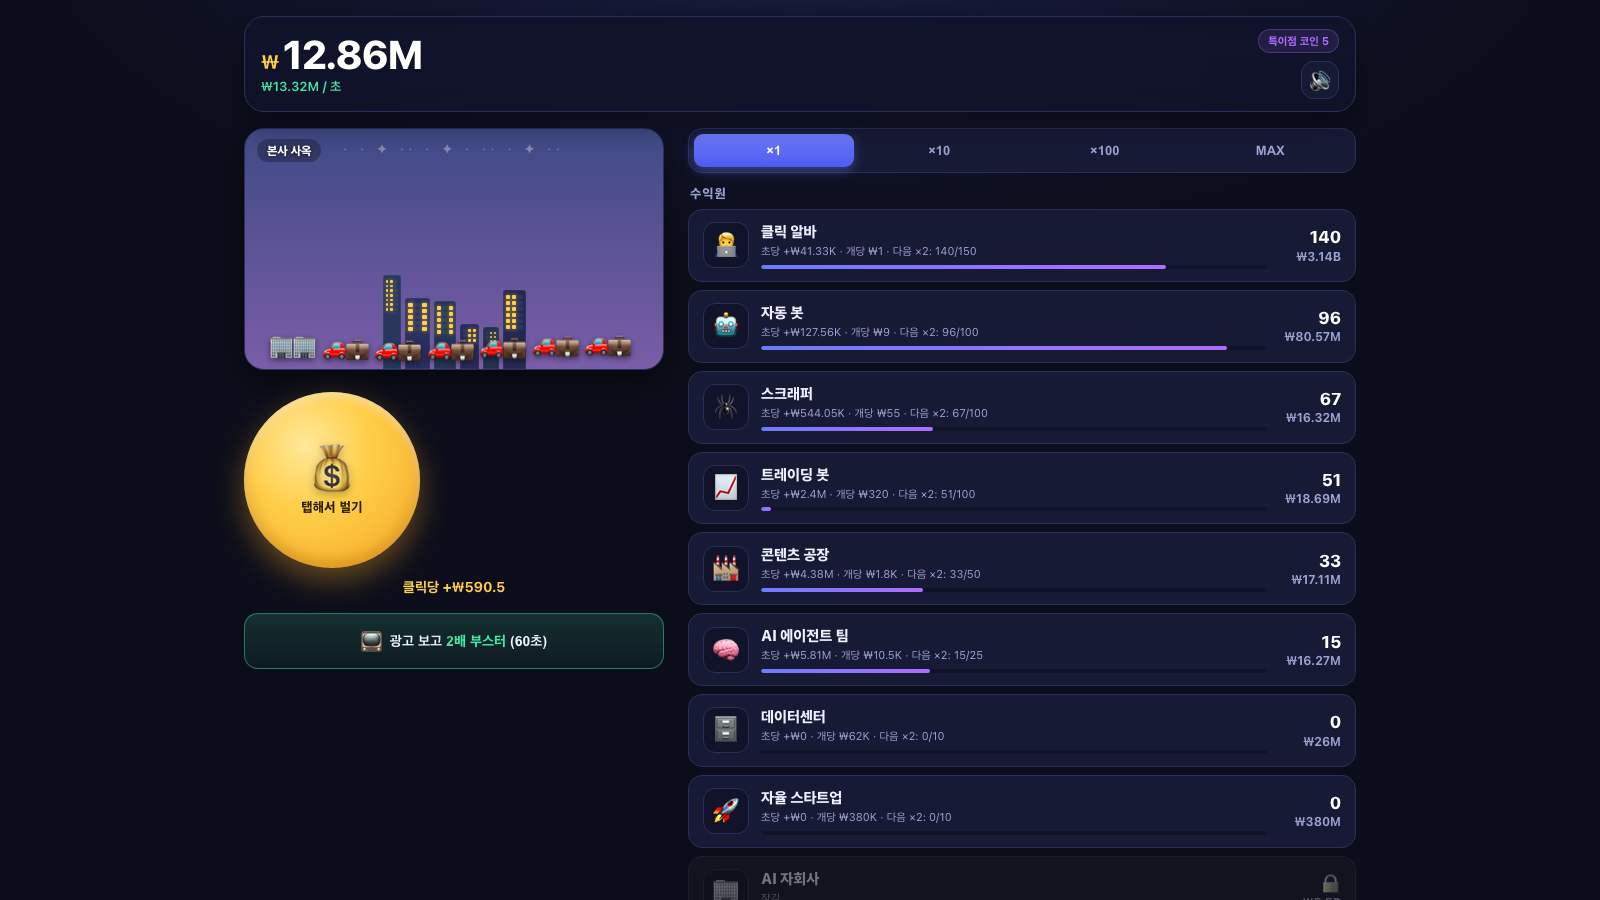
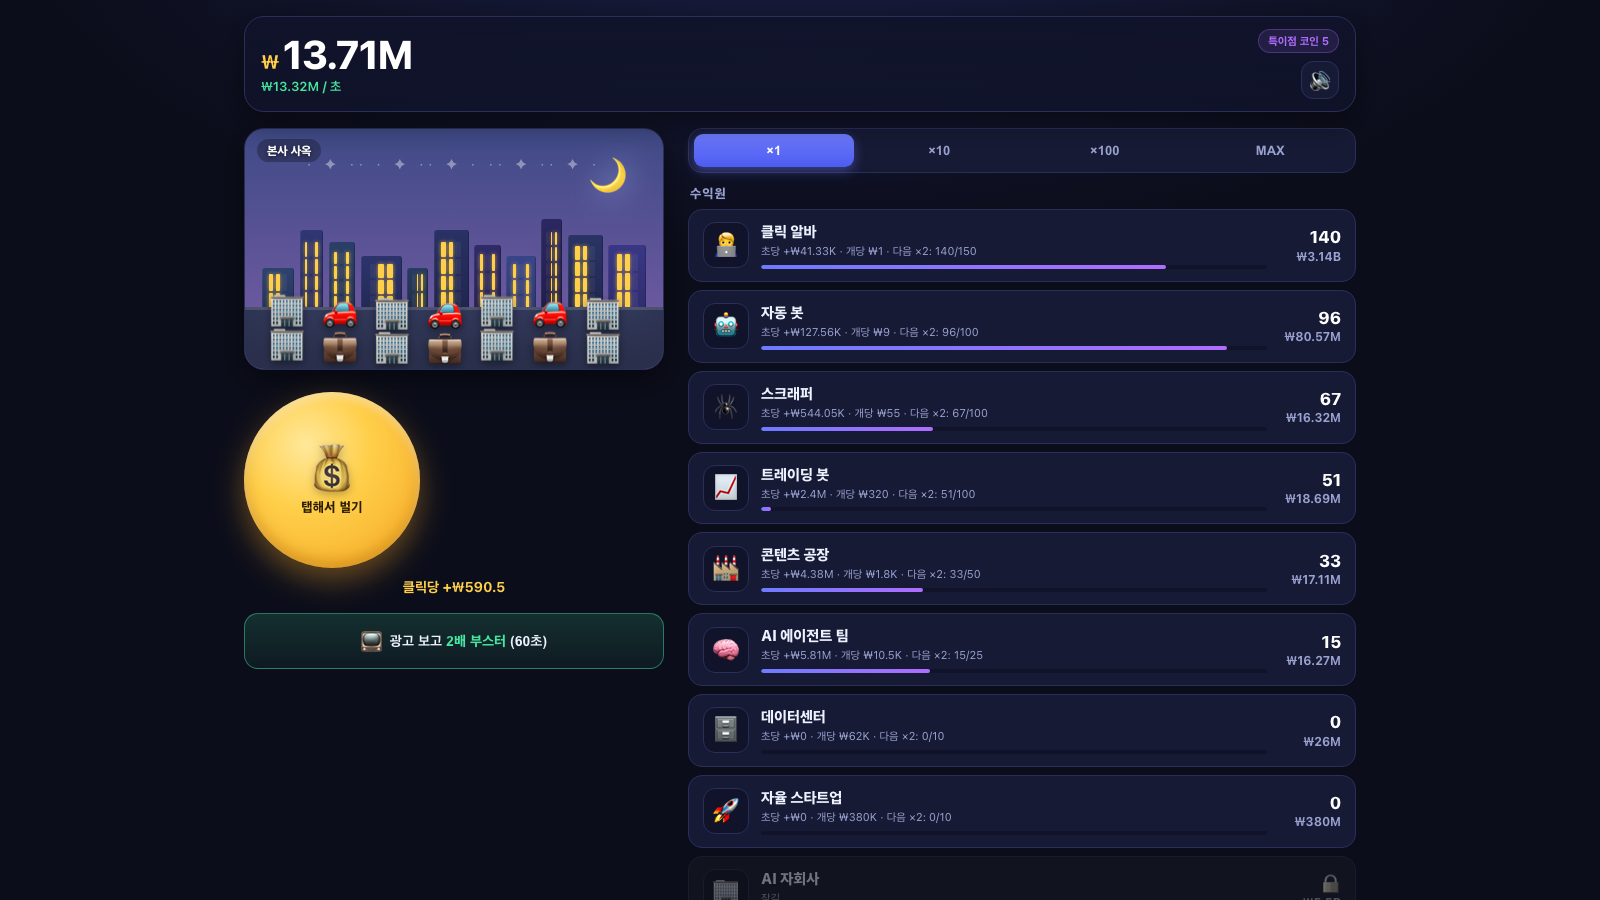
feat: redesign business diorama — ground plane, full-width skyline, sky atmosphere, larger props

Changed region(s): [[0.1562, 0.2489, 0.4375, 0.4356], [0.1875, 0.0311, 0.2812, 0.0933], [0.375, 0.1867, 0.4062, 0.2178]]

diff --git a/style.css b/style.css
@@ -130,52 +130,69 @@ body {
 }
 .scene {
   position: relative;
-  height: clamp(124px, 20vh, 172px);
+  height: clamp(150px, 23vh, 196px);
   transition: background 1.2s var(--ease);
   overflow: hidden;
 }
+/* ground plane — buildings & props stand on it */
+.scene .ground {
+  position: absolute;
+  left: 0; right: 0; bottom: 0;
+  height: 26%;
+  z-index: 2;
+  box-shadow: inset 0 3px 0 rgba(255, 255, 255, 0.14), inset 0 -40px 40px rgba(0, 0, 0, 0.18);
+}
+/* skyline rises from just behind the ground's front edge */
 .scene .skyline {
   position: absolute;
-  bottom: 0; left: 0; right: 0;
-  height: 78%;
+  left: 0; right: 0; bottom: 23%;
+  height: 60%;
   display: flex;
   align-items: flex-end;
   justify-content: center;
-  gap: 4px;
-  padding: 0 8px;
+  gap: 1.5%;
+  padding: 0 4%;
+  z-index: 1;
 }
 .scene .bld {
   position: relative;
+  flex: 1 1 0;
+  min-width: 12px;
+  max-width: 46px;
   border-radius: 3px 3px 0 0;
-  box-shadow: inset 0 0 0 1px rgba(255, 255, 255, 0.05);
+  box-shadow: inset -1px 0 0 rgba(0, 0, 0, 0.2), inset 1px 0 0 rgba(255, 255, 255, 0.06);
   transition: height 0.8s var(--ease);
 }
 .scene .wins {
   position: absolute;
-  inset: 5px 3px 0 3px;
+  inset: 14% 22% 8% 22%;
   display: grid;
   grid-template-columns: repeat(3, 1fr);
-  gap: 2px;
-  align-content: start;
+  gap: 2px 3px;
+  align-content: stretch;
 }
 .scene .w {
   width: 100%;
-  aspect-ratio: 1;
-  max-height: 4px;
-  background: rgba(255, 255, 255, 0.06);
+  min-height: 2px;
+  background: rgba(255, 255, 255, 0.05);
   border-radius: 1px;
 }
-.scene .w.on { background: var(--gold); box-shadow: 0 0 4px rgba(255, 207, 74, 0.7); }
+.scene .w.on { background: var(--gold); box-shadow: 0 0 4px rgba(255, 207, 74, 0.75); }
+/* foreground props standing on the ground */
 .scene .fg {
   position: absolute;
-  bottom: 4px; left: 0; right: 0;
-  height: 40px;
+  left: 0; right: 0; bottom: 0;
+  height: 26%;
+  z-index: 3;
+  display: flex;
+  align-items: flex-end;
+  justify-content: space-evenly;
+  padding: 0 6% 5px;
 }
 .scene .prop {
-  position: absolute;
-  bottom: 0;
-  font-size: 22px;
-  filter: drop-shadow(0 2px 3px rgba(0, 0, 0, 0.5));
+  font-size: clamp(22px, 6.5vmin, 34px);
+  line-height: 1;
+  filter: drop-shadow(0 3px 4px rgba(0, 0, 0, 0.4));
   animation: bob 3s ease-in-out infinite;
 }
 @keyframes bob {
@@ -184,22 +201,46 @@ body {
 }
 .scene .sun {
   position: absolute;
-  top: 14px; right: 22px;
-  font-size: 30px;
-  animation: bob 5s ease-in-out infinite;
+  top: 9%; right: 8%;
+  font-size: clamp(26px, 7vmin, 40px);
+  filter: drop-shadow(0 0 16px rgba(255, 210, 120, 0.85));
+  animation: bob 6s ease-in-out infinite;
+  z-index: 0;
+}
+.scene .moon {
+  position: absolute;
+  top: 10%; right: 9%;
+  font-size: clamp(24px, 6vmin, 36px);
+  filter: drop-shadow(0 0 14px rgba(180, 200, 255, 0.6));
+  z-index: 0;
+}
+.scene .cloud {
+  position: absolute;
+  font-size: clamp(22px, 6vmin, 34px);
+  opacity: 0.92;
+  z-index: 0;
+  filter: drop-shadow(0 3px 6px rgba(0, 0, 0, 0.08));
+}
+.scene .cloud.c1 { top: 13%; left: 8%; animation: drift 16s ease-in-out infinite; }
+.scene .cloud.c2 { top: 30%; left: 44%; animation: drift 22s ease-in-out infinite; animation-delay: -7s; }
+@keyframes drift {
+  0%, 100% { transform: translateX(-8%); }
+  50% { transform: translateX(34%); }
 }
 .scene .stars {
   position: absolute;
-  top: 12px; left: 0; right: 0;
+  top: 11%; left: 0; right: 0;
   text-align: center;
   color: rgba(255, 255, 255, 0.75);
   letter-spacing: 5px;
-  font-size: 12px;
+  font-size: clamp(11px, 3vmin, 14px);
+  z-index: 0;
 }
-.scene .stars.dim { color: rgba(255, 255, 255, 0.35); }
+.scene .stars.dim { color: rgba(255, 255, 255, 0.4); }
 .scene .scene-label {
   position: absolute;
   top: 10px; left: 12px;
+  z-index: 4;
   font-size: 12px;
   font-weight: 800;
   color: #fff;

diff --git a/game.js b/game.js
@@ -673,45 +673,52 @@
     const wrap = towerEl.parentElement;
     if (wrap) wrap.style.background = `linear-gradient(180deg, ${st.sky[0]}, ${st.sky[1]})`;
 
-    // build skyline: n buildings, height varies, windows lit at night
+    // Skyline: fills the full width; height scales up with the era so early
+    // stages read as a low townscape and late stages as a tall metropolis.
+    const count = Math.min(16, 7 + si);
+    const eraScale = si <= 2 ? 0.5 : si <= 4 ? 0.72 : si <= 6 ? 0.88 : 1;
     let buildings = "";
-    const count = st.n;
     for (let i = 0; i < count; i++) {
       const seed = (i * 37 + si * 13) % 100;
-      const h = 26 + (seed % 60) + (si * 4); // taller as empire grows
-      const w = 16 + (seed % 10);
-      const L = st.night ? 22 + (seed % 12) : 42 + (seed % 14);
-      const bg = `hsl(${st.tone + (seed % 25)} ${st.night ? 40 : 24}% ${L}%)`;
+      const h = Math.max(24, Math.round((44 + (seed % 52)) * eraScale)); // % of band
+      const grow = (7 + (seed % 8)) / 10; // slight width variance
+      const L = st.night ? 20 + (seed % 12) : 40 + (seed % 14);
+      const bg = `hsl(${st.tone + (seed % 25)} ${st.night ? 42 : 26}% ${L}%)`;
+      const roof = `hsl(${st.tone + (seed % 25)} ${st.night ? 42 : 26}% ${L + 7}%)`;
       let wins = "";
-      const rows = Math.max(1, Math.floor(h / 12));
+      const rows = Math.max(1, Math.round(h / 14));
       for (let r = 0; r < rows; r++) {
         for (let c = 0; c < 3; c++) {
-          const on = st.night && (seed + r * 3 + c) % 3 !== 0;
+          const on = st.night ? (seed + r * 3 + c) % 3 !== 0 : (seed + r + c) % 4 === 0;
           wins += `<i class="w${on ? " on" : ""}"></i>`;
         }
       }
-      buildings += `<div class="bld" style="height:${h}px;width:${w}px;background:${bg}"><div class="wins">${wins}</div></div>`;
+      buildings += `<div class="bld" style="height:${h}%;flex-grow:${grow};background:linear-gradient(180deg,${roof},${bg})"><div class="wins">${wins}</div></div>`;
     }
 
-    // foreground props scale with detail
-    const propCount = 1 + detail;
+    // Foreground props: a lively row standing ON the ground (grows w/ detail).
+    const propCount = Math.min(7, 3 + detail);
     let props = "";
     for (let i = 0; i < propCount; i++) {
-      const emoji = i === 0 ? st.props : st.people;
-      const delay = (i * 0.4).toFixed(1);
-      const left = 6 + (i * 88) / Math.max(1, propCount);
-      props += `<span class="prop" style="left:${left}%;animation-delay:${delay}s">${emoji}</span>`;
+      const emoji = i % 2 === 0 ? st.props : st.people;
+      const delay = ((i % 4) * 0.35).toFixed(2);
+      props += `<span class="prop" style="animation-delay:${delay}s">${emoji}</span>`;
     }
 
-    const stars = st.space
-      ? '<div class="stars">✦ · ✦ ·· ✧ · ✦ ·· ✧ · ✦ · ✧ ·· ✦</div>'
-      : st.night
-        ? '<div class="stars dim">· · ✦ ·· · ✦ · ·· · ✦ ··</div>'
-        : '<div class="sun">☀</div>';
+    // Sky: sun + drifting clouds (day) · moon + stars (night) · stars (space).
+    let sky;
+    if (st.space) {
+      sky = '<div class="stars">✦ ·· ✧ · ✦ ·· ✧ ·· ✦ · ✧ ·· ✦ · ✧</div><span class="moon">🪐</span>';
+    } else if (st.night) {
+      sky = '<div class="stars dim">· ✦ ·· · ✦ ·· ✦ · ·· ✦ ·· ✦ ·</div><span class="moon">🌙</span>';
+    } else {
+      sky = '<span class="sun">☀</span><span class="cloud c1">☁</span><span class="cloud c2">☁</span>';
+    }
 
     towerEl.innerHTML =
-      stars +
+      sky +
       `<div class="skyline">${buildings}</div>` +
+      `<div class="ground" style="background:${st.ground}"></div>` +
       `<div class="fg">${props}</div>` +
       `<div class="scene-label">${st.name}</div>`;
 
